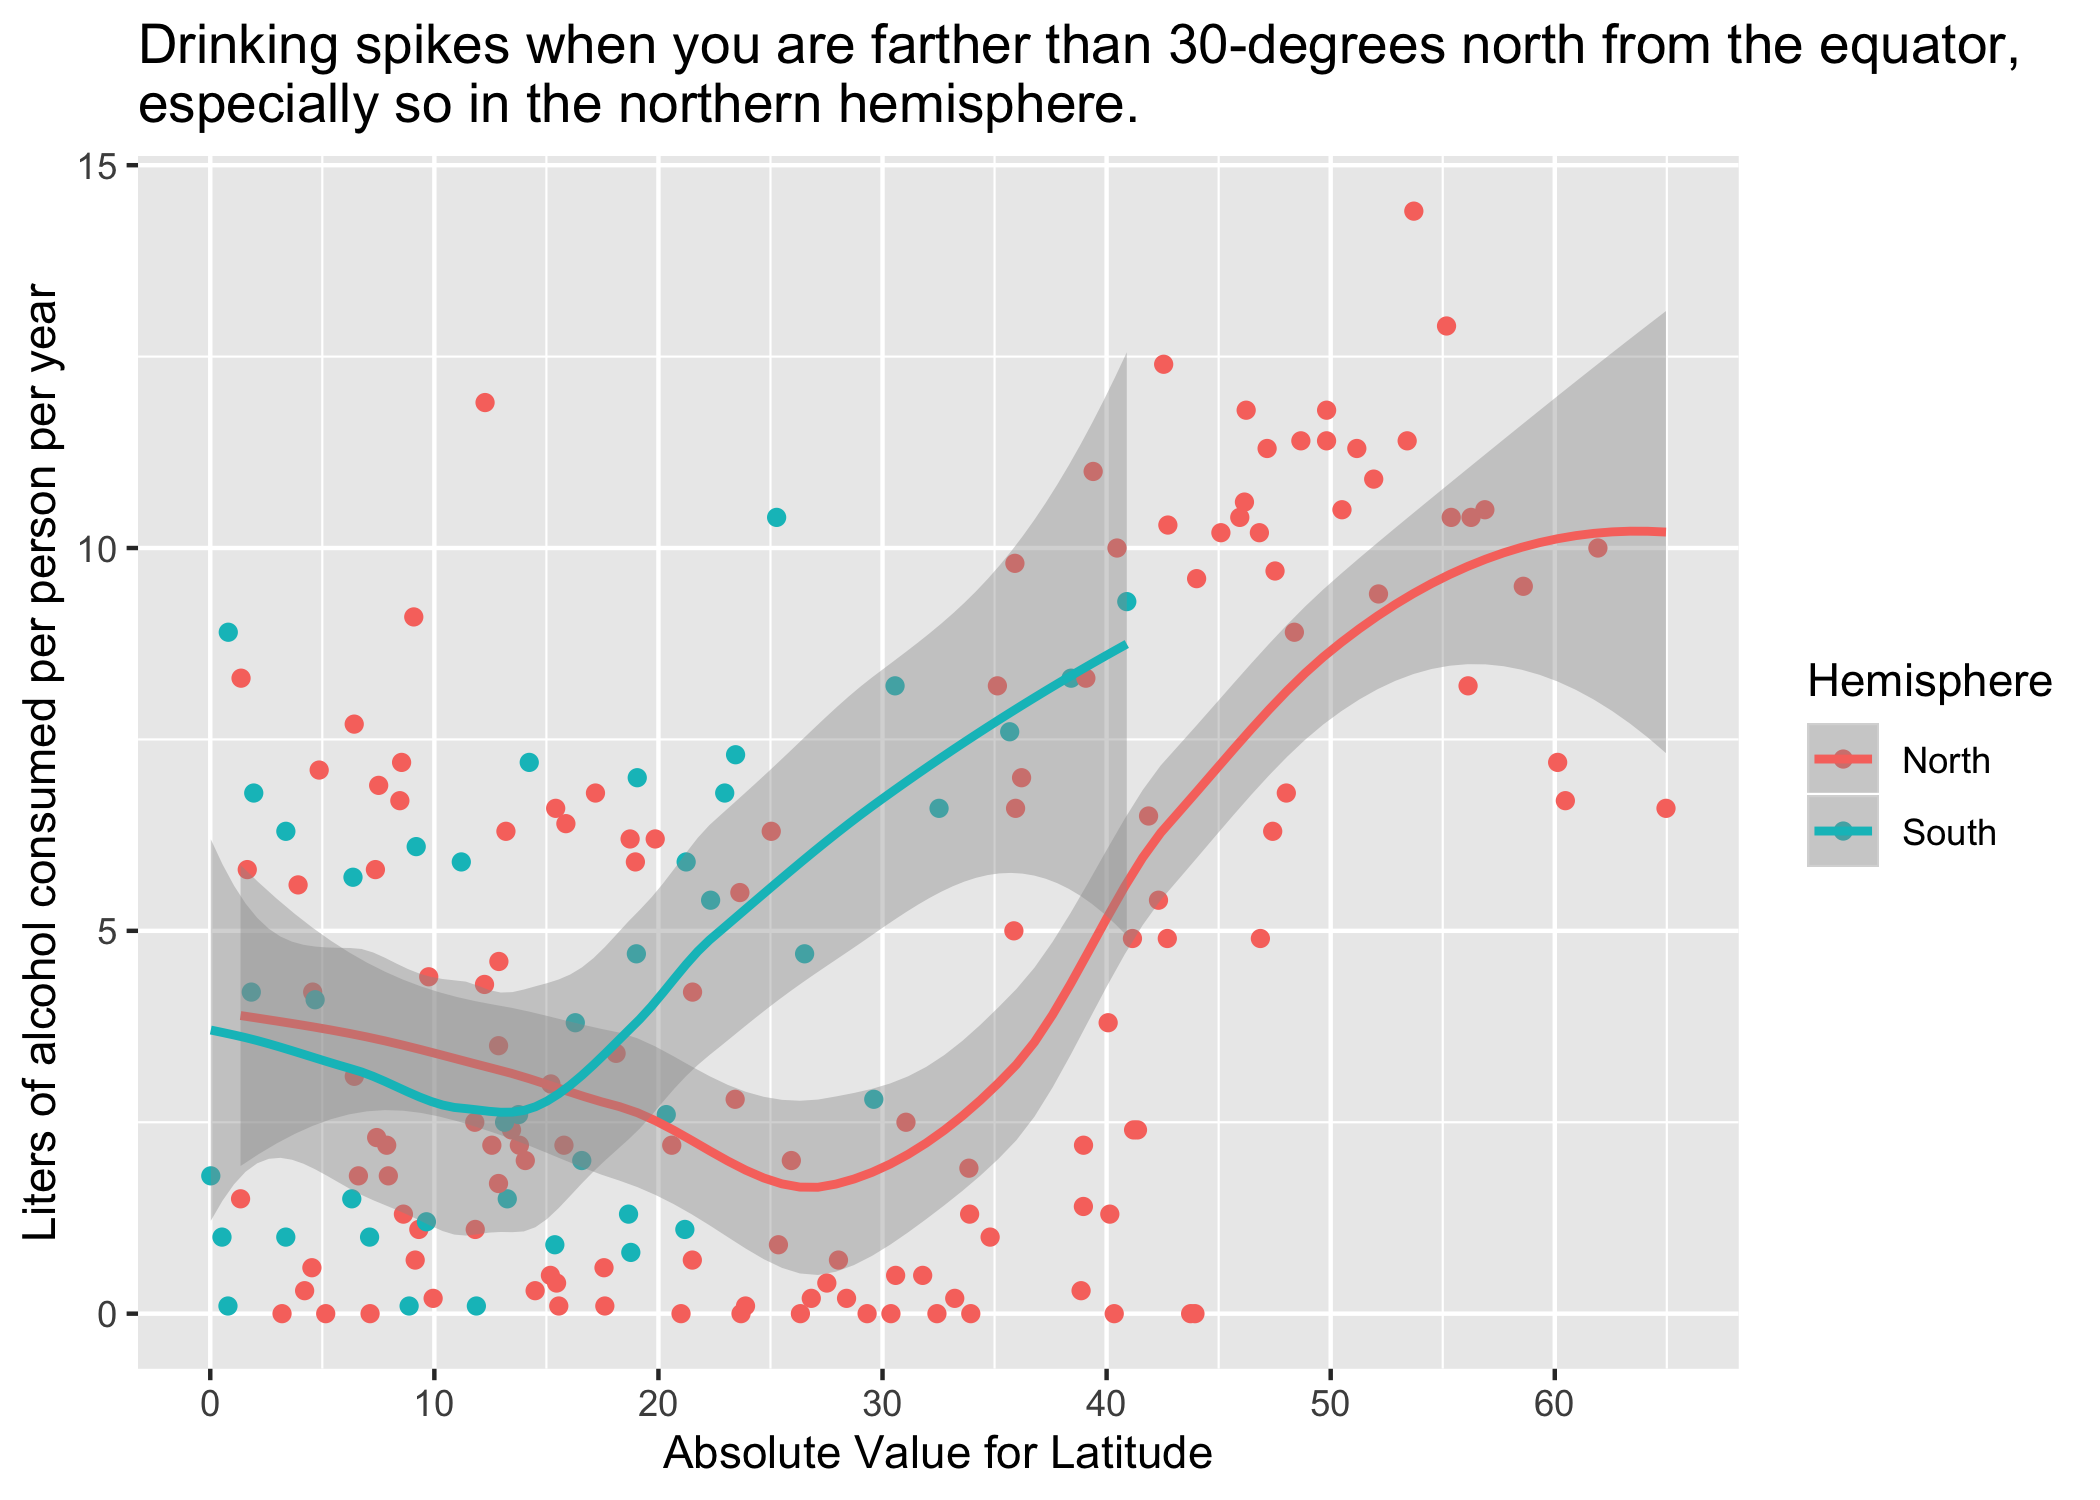
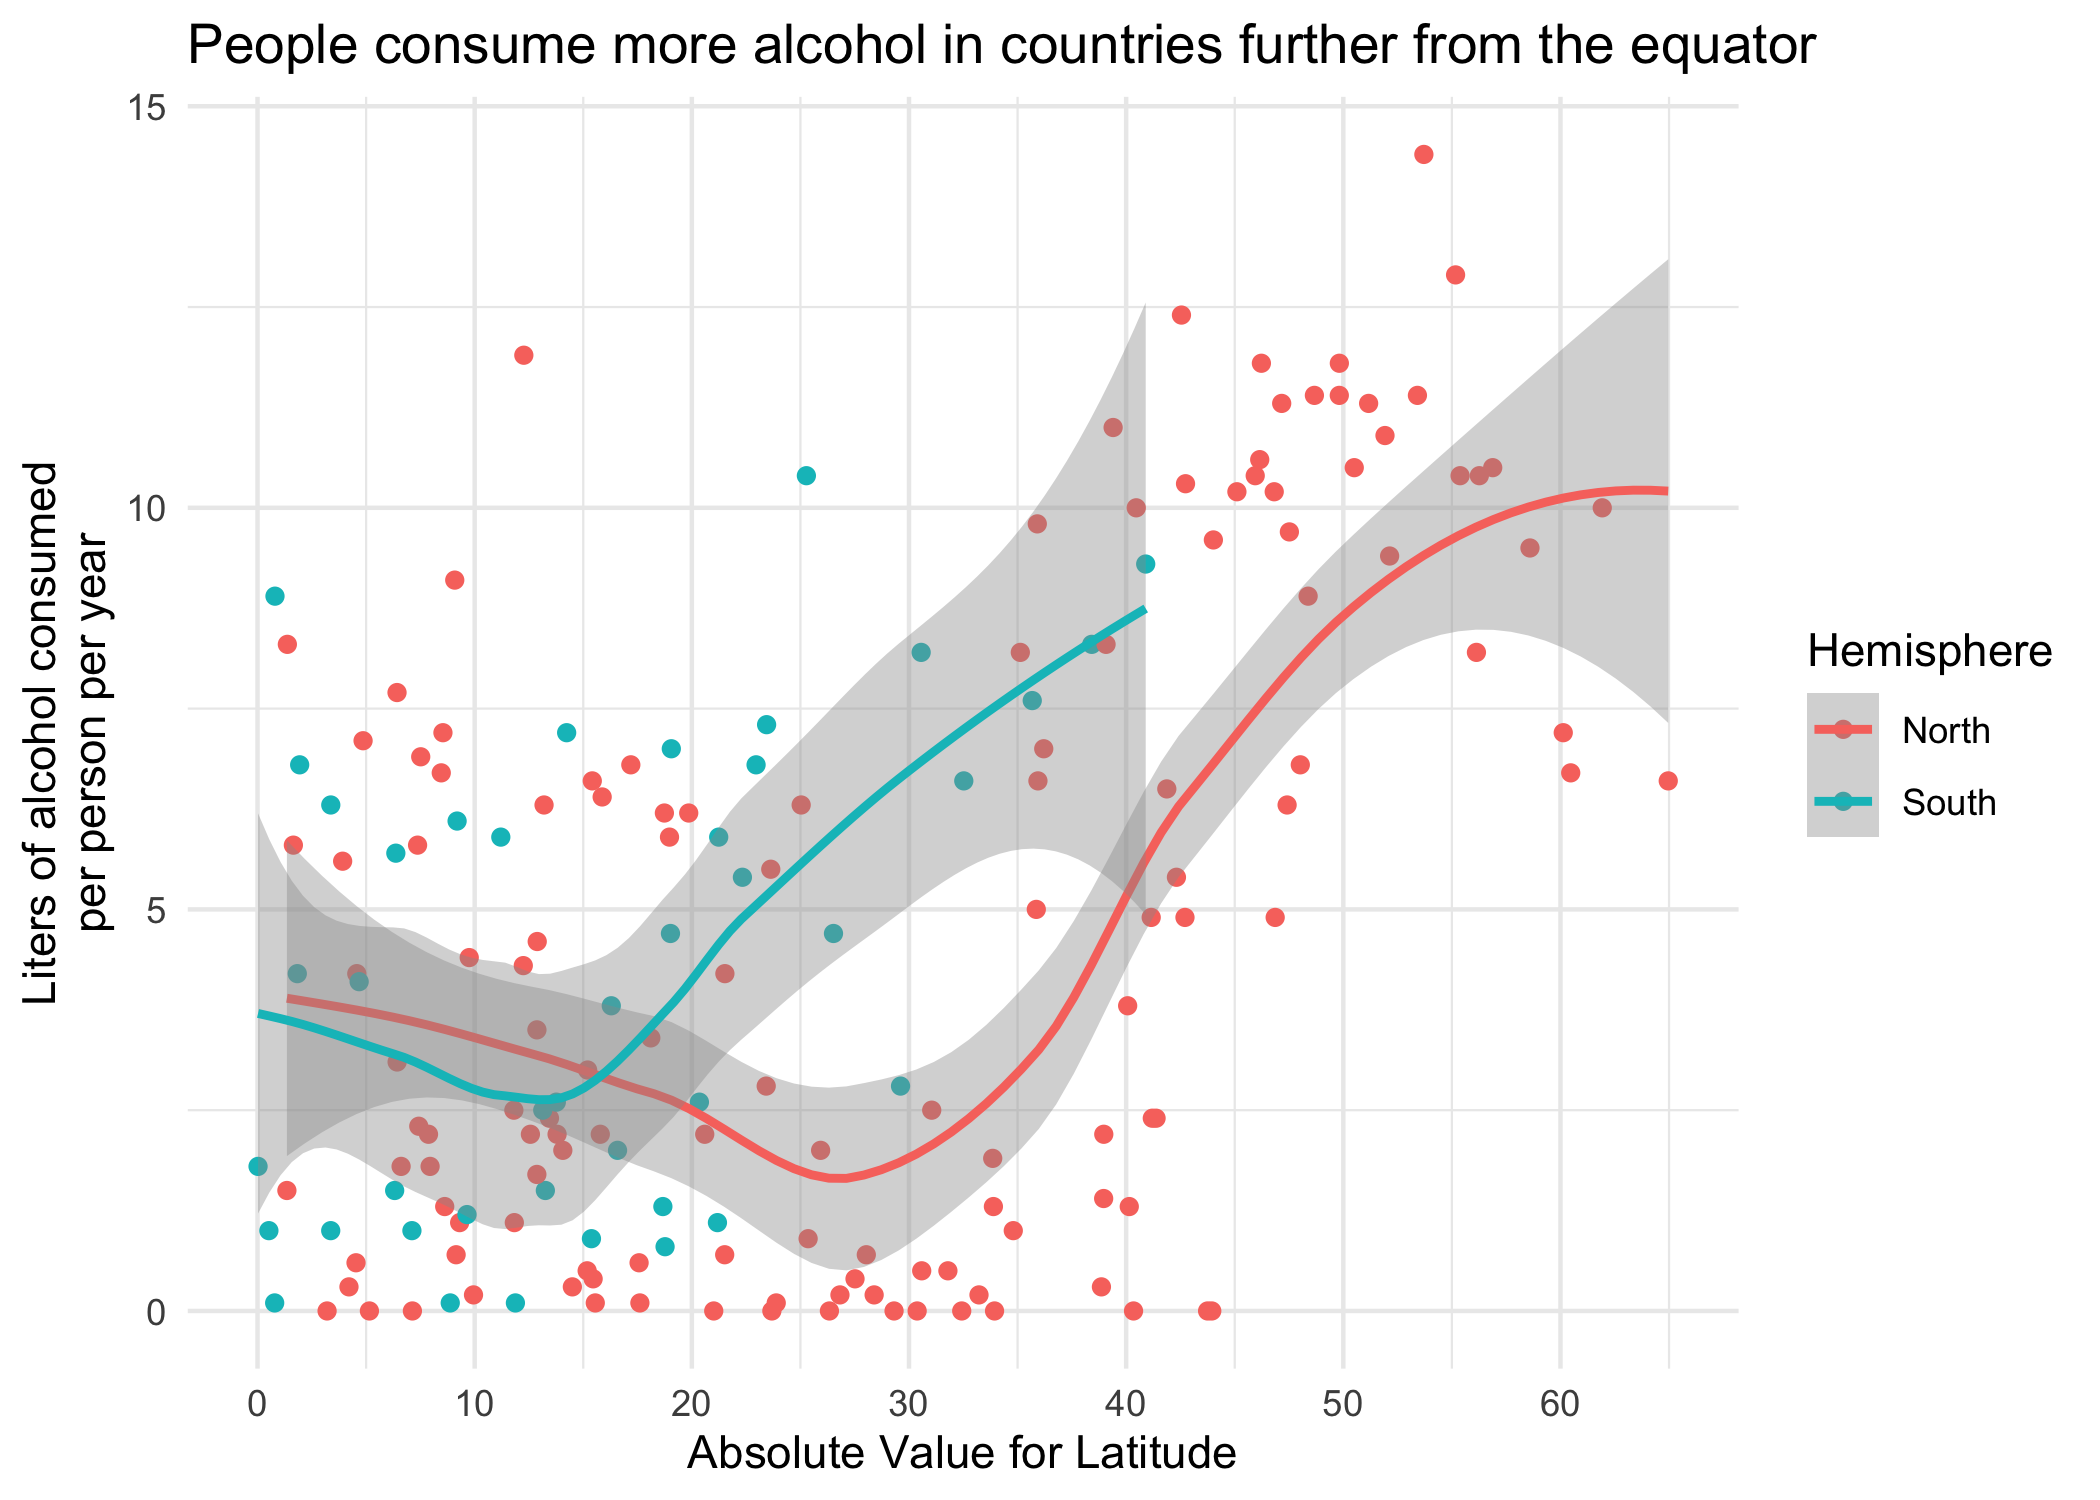
adds report

diff --git a/analysis/alcohol.md b/analysis/alcohol.md
@@ -10,7 +10,20 @@ this analysis because I had no idea what alcohol consumption looked like
 globally, and I wanted to know.
 
 ``` r
+library(breadcrumbs)
 library(knitr)
+library(powerpack)
+```
+
+    ## 
+    ## Attaching package: 'powerpack'
+
+    ## The following object is masked from 'package:breadcrumbs':
+    ## 
+    ##     function_template
+
+``` r
+library(scales)
 library(tidyverse)
 ```
 
@@ -22,15 +35,15 @@ library(tidyverse)
     ## ✔ readr   1.3.1     ✔ forcats 0.4.0
 
     ## ── Conflicts ─────────────────────────────────────────────────────────────── tidyverse_conflicts() ──
-    ## ✖ dplyr::filter() masks stats::filter()
-    ## ✖ dplyr::lag()    masks stats::lag()
+    ## ✖ readr::col_factor() masks scales::col_factor()
+    ## ✖ purrr::discard()    masks scales::discard()
+    ## ✖ dplyr::filter()     masks stats::filter()
+    ## ✖ dplyr::lag()        masks stats::lag()
 
 ``` r
-library(readr)
-library(stringr)
-library(forcats)
-
 source(here::here("file_paths.R"))
+
+theme_set(theme_minimal())
 ```
 
 Poking around:
@@ -101,9 +114,9 @@ ds_alcohol %>%
   scale_color_discrete("Hemisphere") + 
   scale_x_continuous(breaks = seq(0, 80, by = 10)) + 
   labs(
-    title = "Drinking spikes when you are farther than 30-degrees north from the equator,\nespecially so in the northern hemisphere.",
+    title = "People consume more alcohol in countries further from the equator",
     x = "Absolute Value for Latitude",
-    y = "Liters of alcohol consumed per person per year"
+    y = "Liters of alcohol consumed\nper person per year"
   )
 ```
 
@@ -118,7 +131,7 @@ ds_alcohol %>%
   scale_color_discrete("Hemisphere") + 
   scale_x_continuous(breaks = seq(-45, 65, by = 5)) + 
   labs(
-    title = "Drinking spikes when you are farther than 30-degrees north from the equator,\nespecially so in the northern hemisphere.",
+    title = "Drinking spike is steeper in the northern hemisphere.",
     x = "Latitude",
     y = "Liters of alcohol consumed per person per year"
   )
@@ -133,7 +146,7 @@ ds_alcohol %>%
   scale_x_continuous(breaks = seq(-65, 65, by = 5), limits = c(-65, 65)) + 
   geom_vline(xintercept = 0, color = "blue") + 
   labs(
-    title = "Drinking spikes when you are farther than 30-degrees north of the equator,\nor 15 degrees south",
+    title = "Drinking spikes after 30-degrees north of the equator,\n& 15 degrees south",
     x = "Latitude",
     y = "Liters of alcohol consumed per person per year"
   )
@@ -143,9 +156,12 @@ ds_alcohol %>%
 
 ``` r
 ds_alcohol %>% 
-  ggplot(aes(x = ppp, y = ttl_L_pure_alcohol)) + 
-  geom_point(alpha = .75) + 
-  geom_smooth() 
+  mutate(country_ppp_60k = ifelse(ppp > 60e3 | ttl_L_pure_alcohol > 12, country, NA)) %>% 
+  ggplot(aes(x = ppp, y = ttl_L_pure_alcohol, label = country_ppp_60k)) + 
+  geom_point(alpha = .75) +
+  geom_smooth() + 
+  scale_x_continuous(breaks = seq(0, 150e3, by = 25e3), labels = dollar) + 
+  geom_text(nudge_y = .75)
 ```
 
 ![](figs/unnamed-chunk-6-1.png)<!-- -->
@@ -156,14 +172,15 @@ ds_alcohol %>%
   ggplot(aes(x = ppp, y = ttl_L_pure_alcohol)) + 
   geom_point(alpha = .75) + 
   geom_smooth() + 
+  scale_x_continuous(breaks = seq(0, 150e3, by = 10e3), labels = dollar) + 
   labs(
-    title = "The poor drink less.",
+    title = wrap("Eliminating wealthy outlier countries we see a strong trend of drinking increasing with wealth", 60),
     x = "GDP per Person (PPP) in USD",
     y = "Liters of alcohol consumed per person per year"
   ) 
 ```
 
-![](figs/unnamed-chunk-6-2.png)<!-- -->
+![](figs/unnamed-chunk-7-1.png)<!-- -->
 
 ``` r
 ds_alcohol %>% 
@@ -182,18 +199,34 @@ ds_alcohol %>%
   scale_color_discrete("PPP") + 
   scale_x_continuous(breaks = seq(-45, 65, by = 5)) + 
   labs(
-    title = "Wealthy countries buck the trend of higher drinking in the far north.",
+    title = wrap("Wealthy countries buck the trend of higher drinking in the far north", 60),
     x = "Latitude",
     y = "Liters of alcohol consumed per person per year"
   )
 ```
 
-![](figs/unnamed-chunk-7-1.png)<!-- -->
+![](figs/unnamed-chunk-8-1.png)<!-- -->
 
 TBD: Add in religion as a variable.
 
 High PPP countries in northern latitudes driving the plunge in alcohol
 consumption:
+
+``` r
+ds_alcohol %>% 
+  filter(latitude > 50, ppp >= 3e4) %>% 
+  ggplot(aes(x = latitude, y = ttl_L_pure_alcohol, label = country)) + 
+  geom_point(alpha = .75) + 
+  geom_smooth() + 
+  geom_text(nudge_x = .25, nudge_y = .25, size = 4) + 
+  labs(
+    title = wrap("Wealthy countries reverse the trend of higher drinking in the far north", 60),
+    x = "Latitude",
+    y = "Liters of alcohol\nconsumed per person per year"
+  )
+```
+
+![](figs/unnamed-chunk-9-1.png)<!-- -->
 
 ``` r
 ds_alcohol %>% 
